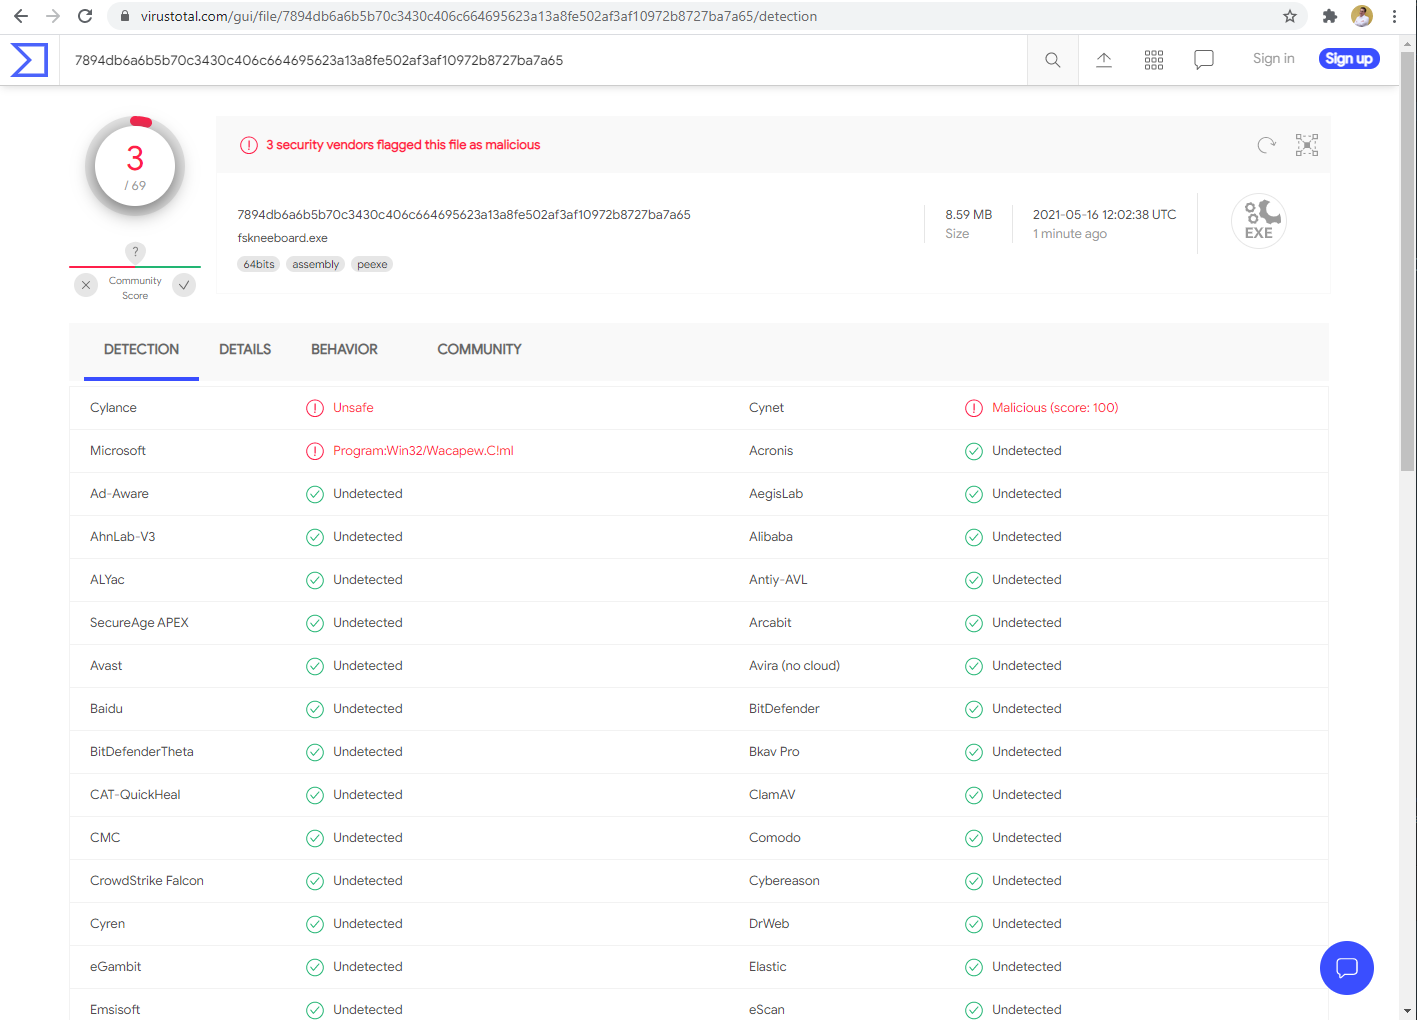
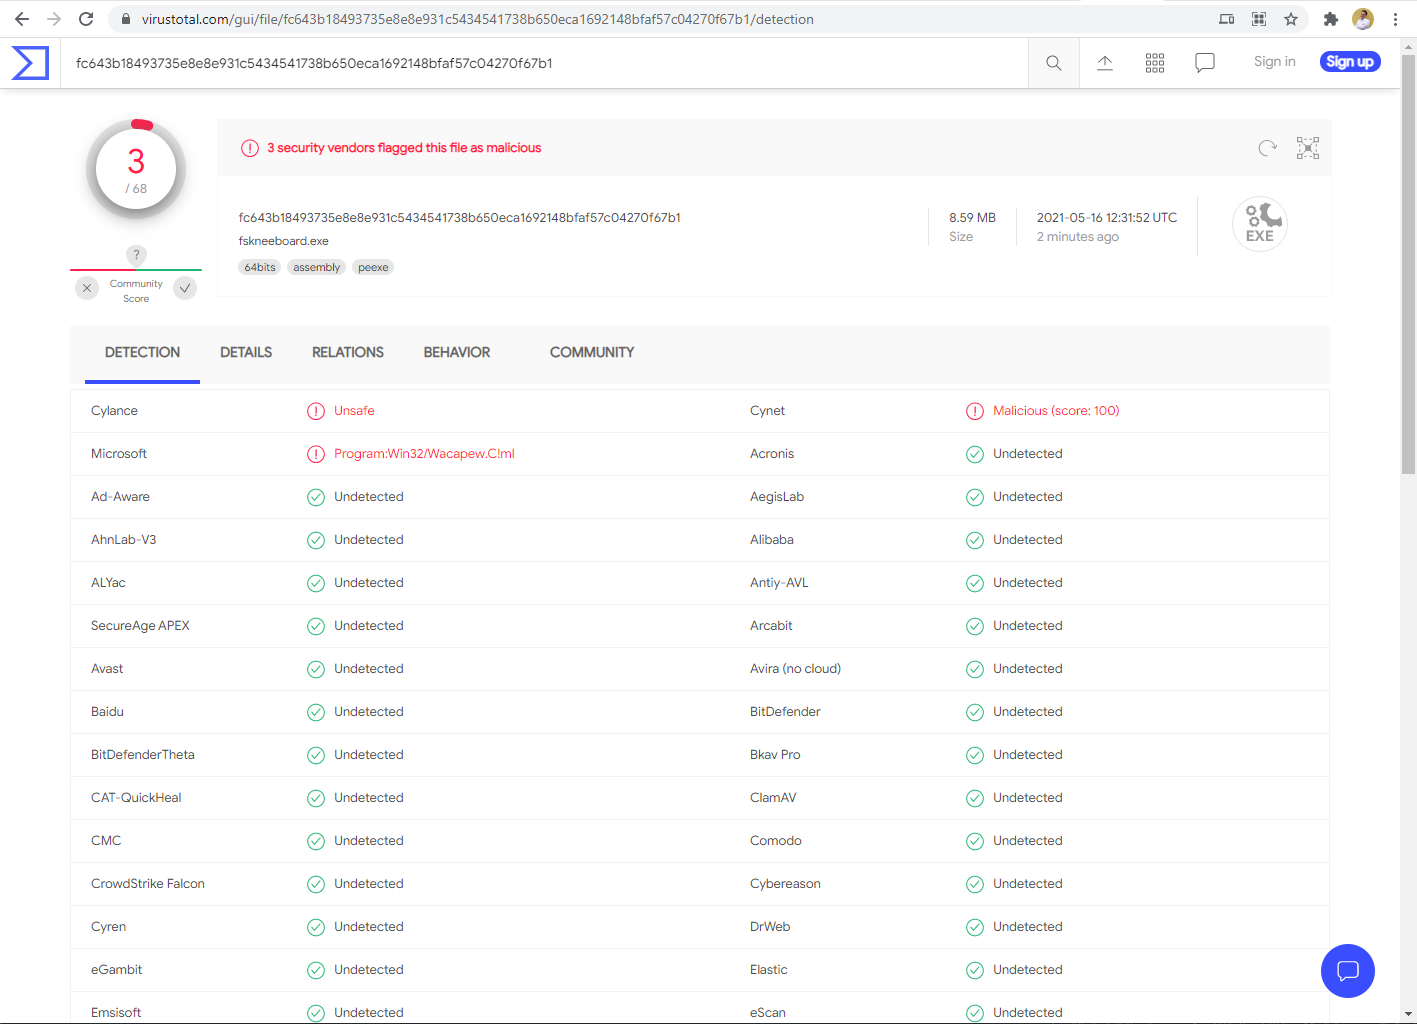
updated virus total report

diff --git a/README.md b/README.md
@@ -304,7 +304,7 @@ Personal statement:
 >
 > At the end of the day, it is your call. If you don't trust me and a binary that is flagged by a virus scanner, I do respect that. It's common sense, and I am not happy with the entire false-positive situation either. That is why in the mid-term I am planning to migrate the entire server component from GO to .NET, which should hopefully help to mitigate the issue.
 
-However, here's a virus [report from virustotal for the binaries of Version 1.2.0](https://www.virustotal.com/gui/file/7894db6a6b5b70c3430c406c664695623a13a8fe502af3af10972b8727ba7a65/detection). Please note how many virus scanners do NOT flag the server as a positive. Please upload your own copy of FSKneeboard to virustotal to see the results of the latest version for yourself.
+However, here's a virus [report from virustotal for the binaries of Version 1.2.0](https://www.virustotal.com/gui/file/fc643b18493735e8e8e931c5434541738b650eca1692148bfaf57c04270f67b1/detection). Please note how many virus scanners do NOT flag the server as a positive. Please upload your own copy of FSKneeboard to virustotal to see the results of the latest version for yourself.
 
 ![Virustotal Report of Version 1.2.0](screenshots/virus-total-1-2-0.png)
 
